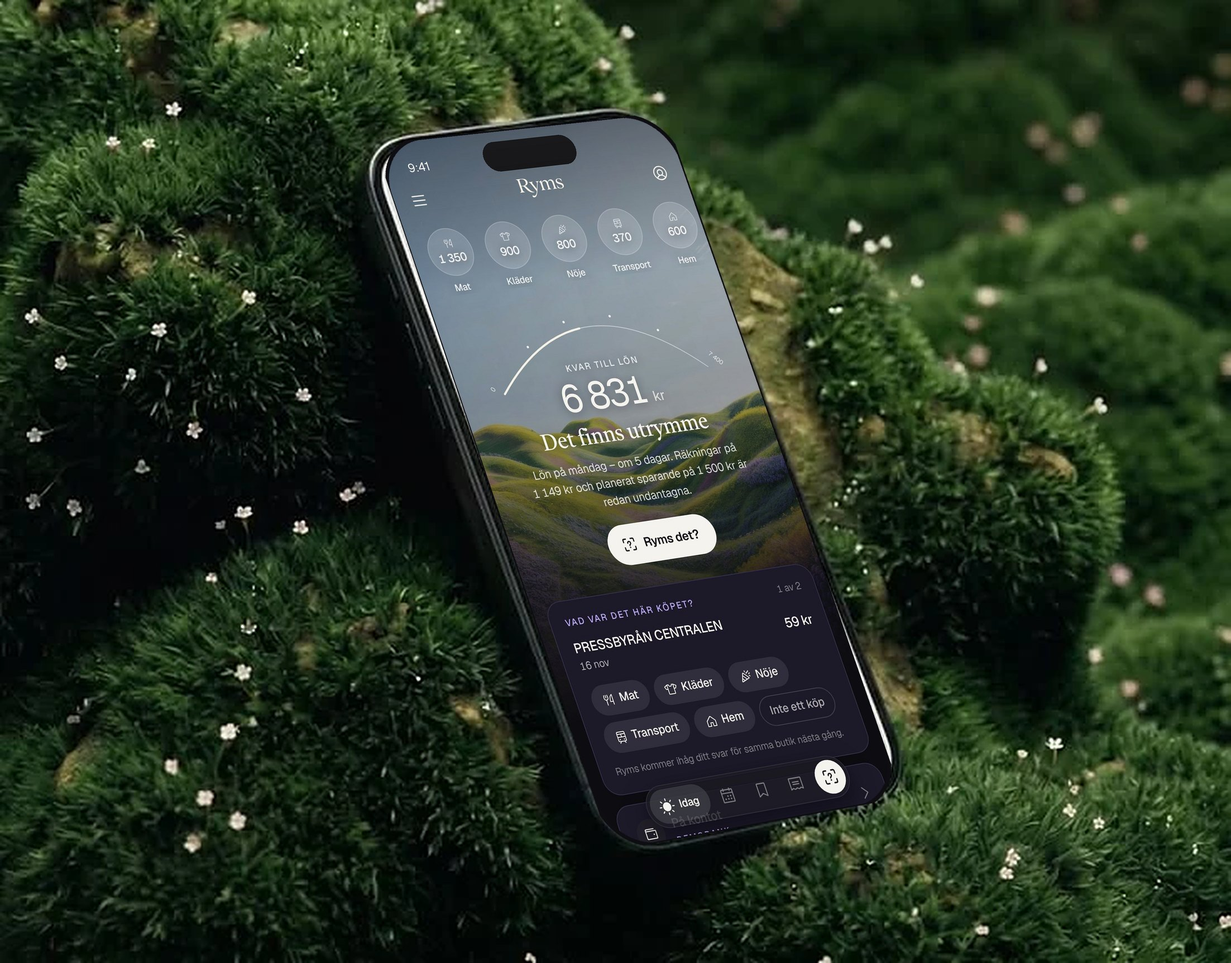
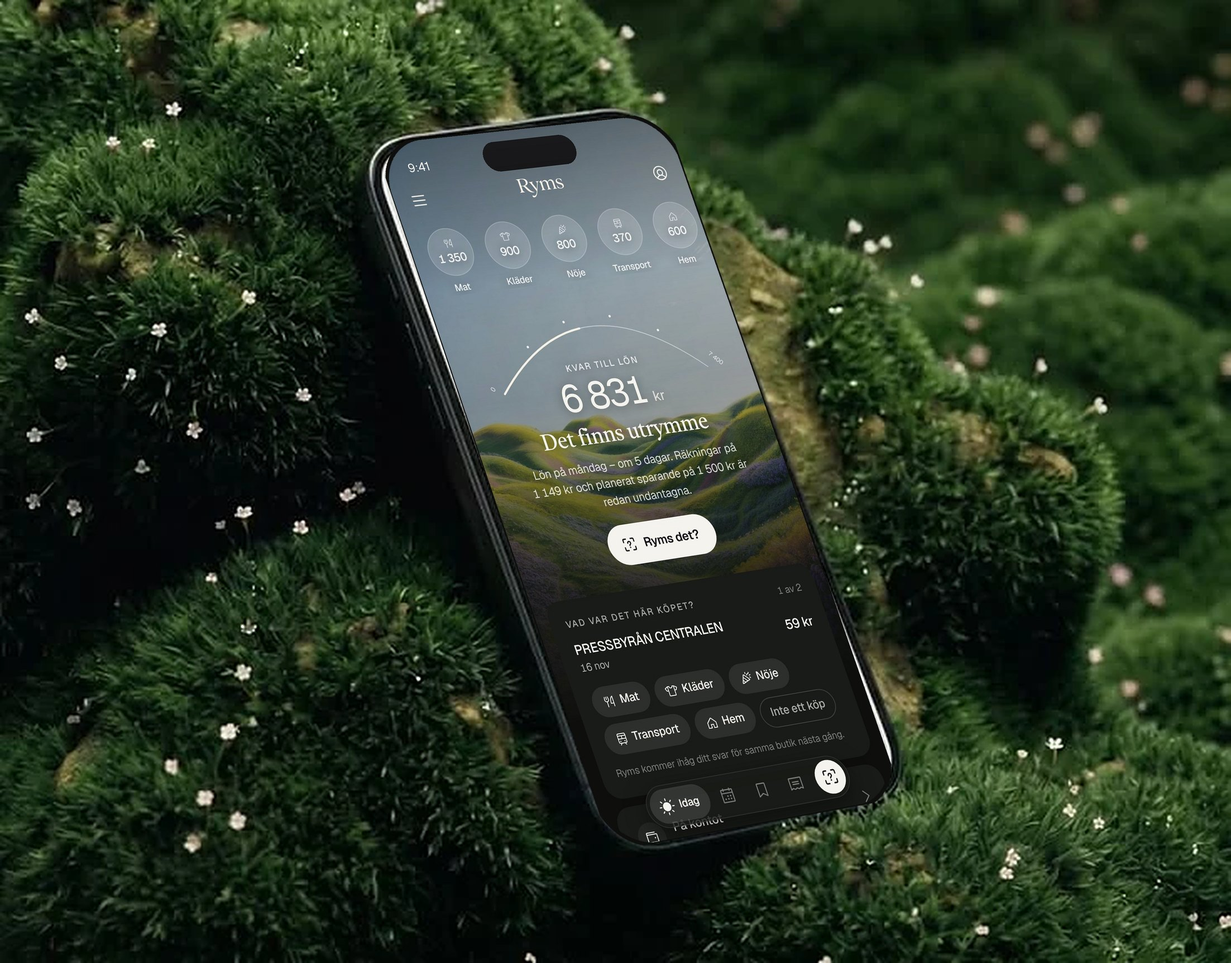
Landningssidans telefon visar appens nuvarande utseende
Hjältebilden byggs nu av ett skript (scripts/landing-hero.py) från en
aktuell skärmbild, så att den kan uppdateras när appen ändras.

Claude-Session: https://claude.ai/code/session_01GAD7svFHpQ8hFb5MfyqAze

diff --git a/scripts/landing-hero.py b/scripts/landing-hero.py
@@ -1,0 +1,54 @@
+"""Bygger landningssidans hjältebild: lägger in en aktuell skärmbild av appen i telefonen på mossfotot.
+
+  npm run build && node tests/preview/landing-shots.cjs && python3 scripts/landing-hero.py
+"""
+import glob, os
+import numpy as np
+from PIL import Image, ImageDraw, ImageFilter, ImageFont
+
+ROOT = os.path.dirname(os.path.dirname(os.path.abspath(__file__)))
+K = 3  # förstoring av grundbilden
+# Telefonskärmens hörn i grundbilden (vänster-upp, höger-upp, höger-ned, vänster-ned)
+QUAD = [(224.0, 86.4), (396.0, 67.8), (538.4, 475.6), (366.0, 507.4)]
+
+base = Image.open(os.path.join(ROOT, "assets/landing/moss-phone.webp")).convert("RGB")
+big = base.resize((base.width * K, base.height * K), Image.LANCZOS).filter(ImageFilter.UnsharpMask(radius=2.2, percent=70, threshold=2))
+quad = [(x * K, y * K) for x, y in QUAD]
+
+shot = Image.open(os.path.join(ROOT, "public/landing/app-home.jpg")).convert("RGB")
+W, H = shot.size
+d = ImageDraw.Draw(shot)
+d.rounded_rectangle((W / 2 - 124, 24, W / 2 + 124, 96), radius=36, fill=(4, 4, 6))  # dynamisk ö
+font = ImageFont.truetype(glob.glob(os.path.join(ROOT, "node_modules/@fontsource-variable/geist/files/*latin-wght-normal.woff2"))[0], 30)
+d.text((64, 44), "9:41", font=font, fill=(245, 243, 238))
+mask = Image.new("L", (W, H), 0)
+ImageDraw.Draw(mask).rounded_rectangle((0, 0, W, H), radius=122, fill=255)
+glare = Image.new("L", (W, H), 0)
+gd = ImageDraw.Draw(glare)
+for i in range(H):
+    gd.line([(0, i), (W, i)], fill=int(22 * max(0, 1 - i / (H * 0.55))))
+shot = Image.composite(Image.new("RGB", (W, H), (255, 255, 255)), shot, glare)
+
+
+def coeffs(dst, src):
+    a, b = [], []
+    for (x, y), (u, v) in zip(dst, src):
+        a.append([x, y, 1, 0, 0, 0, -u * x, -u * y])
+        a.append([0, 0, 0, x, y, 1, -v * x, -v * y])
+        b += [u, v]
+    return tuple(np.linalg.solve(np.array(a, float), np.array(b, float)))
+
+
+SS = 2
+size = (big.width * SS, big.height * SS)
+src = [(0, 0), (W, 0), (W, H), (0, H)]
+warp = lambda im, q: im.transform(size, Image.PERSPECTIVE, coeffs([(x * SS, y * SS) for x, y in q], src), Image.BICUBIC).resize(big.size, Image.LANCZOS)
+
+# Mörka först originalskärmens ljusa yta så att inget vitt lyser igenom i kanterna
+grow = [(q[0] + (2 if i in (1, 2) else -2), q[1] + (2 if i in (2, 3) else -2)) for i, q in enumerate(quad)]
+dmask = Image.new("L", (W, H), 0)
+ImageDraw.Draw(dmask).rounded_rectangle((-6, -6, W + 6, H + 6), radius=128, fill=255)
+big = Image.composite(warp(Image.new("RGB", (W, H), (14, 15, 13)), grow), big, warp(dmask, grow))
+out = Image.composite(warp(shot, quad), big, warp(mask, quad))
+out.save(os.path.join(ROOT, "public/landing/hero.jpg"), quality=86, optimize=True, progressive=True)
+print("public/landing/hero.jpg", out.size)
